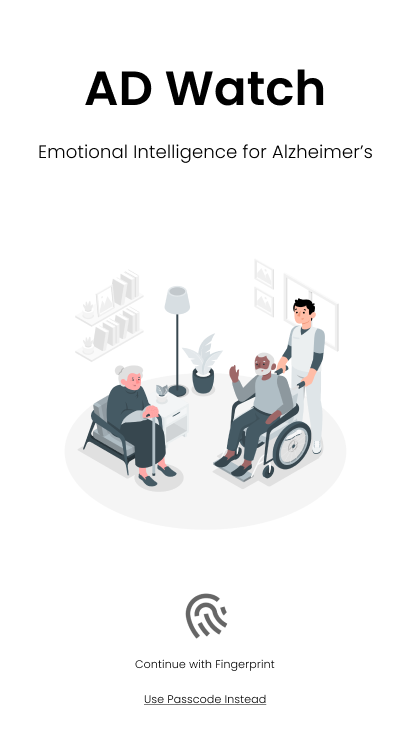
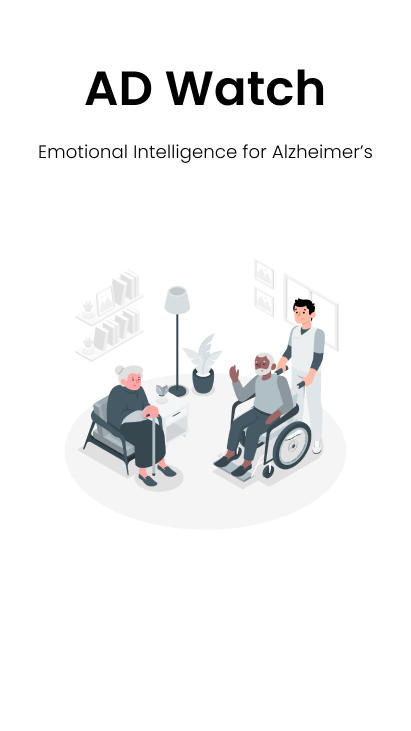
Changed buttons on landing page and connected them to a new and interactive login page and front page

Changed region(s): [[0.3212, 0.9029, 0.6715, 0.9631], [0.438, 0.8126, 0.5547, 0.8728]]

diff --git a/adwatch_app/lib/login/login.dart b/adwatch_app/lib/login/login.dart
@@ -27,13 +27,74 @@ class LoginPage extends StatelessWidget{
           ),
           new Container(
               alignment: Alignment.center,
+              width: 375,
               child: new Column(
                   crossAxisAlignment: CrossAxisAlignment.center,
                   mainAxisSize: MainAxisSize.min,
                   children: <Widget>[
-                    SizedBox(height: 90),
-                    new CupertinoButton(
-                      color: Color(0xFF48A7FF),
+                    new Container(
+                      padding: EdgeInsets.symmetric(vertical: 25),
+                      alignment: Alignment.center,
+                      child: TextFormField(
+                        cursorColor: Theme.of(context).cursorColor,
+                        maxLines: 1,
+                        initialValue: "",
+                        decoration: InputDecoration(
+                          icon: Icon(Icons.person),
+                          labelText: 'Username / E-mail',
+                          labelStyle: TextStyle(
+                              color: Colors.black,
+                              fontFamily: 'Roboto'
+                          ),
+                          // helperText: 'Helper text',
+                          // suffixIcon: Icon(
+                          //   Icons.check_circle,
+                          // ),
+                          enabledBorder: OutlineInputBorder(
+                            borderSide: BorderSide(color: Colors.grey),
+                          ),
+                          focusedBorder: OutlineInputBorder(
+                            borderSide: BorderSide(color: Colors.black),
+                          ),
+                        ),
+                      ),
+                    ),
+                    new Container(
+                      alignment: Alignment.center,
+                      margin: EdgeInsets.symmetric(vertical: 25),
+                      child: TextFormField(
+                        cursorColor: Theme.of(context).cursorColor,
+                        maxLines: 1,
+                        initialValue: "",
+                        decoration: InputDecoration(
+                          icon: Icon(Icons.lock),
+                          labelText: 'Passcode',
+                          labelStyle: TextStyle(
+                              color: Colors.black,
+                              fontFamily: 'Roboto'
+                          ),
+                          // helperText: 'Helper text',
+                          suffixIcon: Icon(
+                            Icons.visibility,
+                          ),
+                          enabledBorder: OutlineInputBorder(
+                            borderSide: BorderSide(color: Colors.grey),
+                          ),
+                          focusedBorder: OutlineInputBorder(
+                            borderSide: BorderSide(color: Colors.black),
+                          ),
+                        ),
+                      ),
+                    ),
+                  new Container(
+                    alignment: Alignment.centerRight,
+                    margin: EdgeInsets.symmetric(vertical: 25),
+                    child:
+                    OutlinedButton(
+                      style: OutlinedButton.styleFrom(
+                          primary: Colors.white,
+                          backgroundColor: Colors.black
+                      ),
                       onPressed: () {
                         Navigator.push(
                           context,
@@ -41,11 +102,13 @@ class LoginPage extends StatelessWidget{
                         );
                       },
                       child: Text(
-                        'Log In',
+                        'LOG IN',
                         style: TextStyle(
-                            fontFamily: 'Montserrat'),
+                          fontSize: 20,
+                            fontFamily: 'Roboto'),
                       ),
                     ),
+                  ),
                   ]
               )
           )

diff --git a/adwatch_app/lib/main.dart b/adwatch_app/lib/main.dart
@@ -1,7 +1,8 @@
 import 'package:flutter/cupertino.dart';
 import 'package:flutter/material.dart';
-import 'package:adwatch_app/app/createNewAccount/new_user.dart';
-import 'package:adwatch_app/app/login/login.dart';
+import 'package:adwatch_app/createNewAccount/new_user.dart';
+import 'package:adwatch_app/app/front_page.dart';
+import 'package:adwatch_app/login/login.dart';
 
 void main() {
   runApp(MyApp());
@@ -31,37 +32,45 @@ class StartPage extends StatelessWidget{
             ),
           ),
           new Container(
-            alignment: Alignment.center,
+            alignment: Alignment.bottomCenter,
             child: new Column(
               crossAxisAlignment: CrossAxisAlignment.center,
               mainAxisSize: MainAxisSize.min,
               children: <Widget>[
-                new CupertinoButton(
-                  color: Color(0xFF48A7FF),
+                // Fingerprint login button
+                OutlinedButton(
+                  style: OutlinedButton.styleFrom(
+                      primary: Colors.white,
+                      backgroundColor: Colors.black
+                  ),
                   onPressed: () {
                     Navigator.push(
                       context,
-                      MaterialPageRoute(builder: (context) => NewUser()),
+                      MaterialPageRoute(builder: (context) => Front()),
                     );
                   },
                   child: Text(
-                    'Create New Account',
+                    'Continue with Fingerprint',
                     style: TextStyle(
-                      fontFamily: 'Montserrat'),
+                        fontSize: 24,
+                      fontFamily: 'Roboto'
+                    ),
                   ),
                 ),
+                // Local passcode login button
                 new CupertinoButton(
                   onPressed: () {
                     Navigator.push(
                       context,
-                      MaterialPageRoute(builder: (context) => Login()),
+                        MaterialPageRoute(builder: (context) => Login()),
                     );
                   },
                   child: Text(
-                      'Log In',
+                      'Use Local Passcode Instead',
                       style: TextStyle(
+                        fontSize: 20,
                         color: Color(0xFF000000),
-                        fontFamily: 'Montserrat'),
+                        fontFamily: 'Roboto'),
                   ),
                 ),
               ]

diff --git a/adwatch_app/lib/app/front_page.dart b/adwatch_app/lib/app/front_page.dart
@@ -16,7 +16,7 @@ class FrontPage extends StatelessWidget{
   @override
   Widget build(BuildContext context){
     return Scaffold(
-      resizeToAvoidBottomPadding: false,
+      resizeToAvoidBottomInset: false,
       body: new Stack(
         alignment: Alignment.bottomCenter,
         children: <Widget>[
